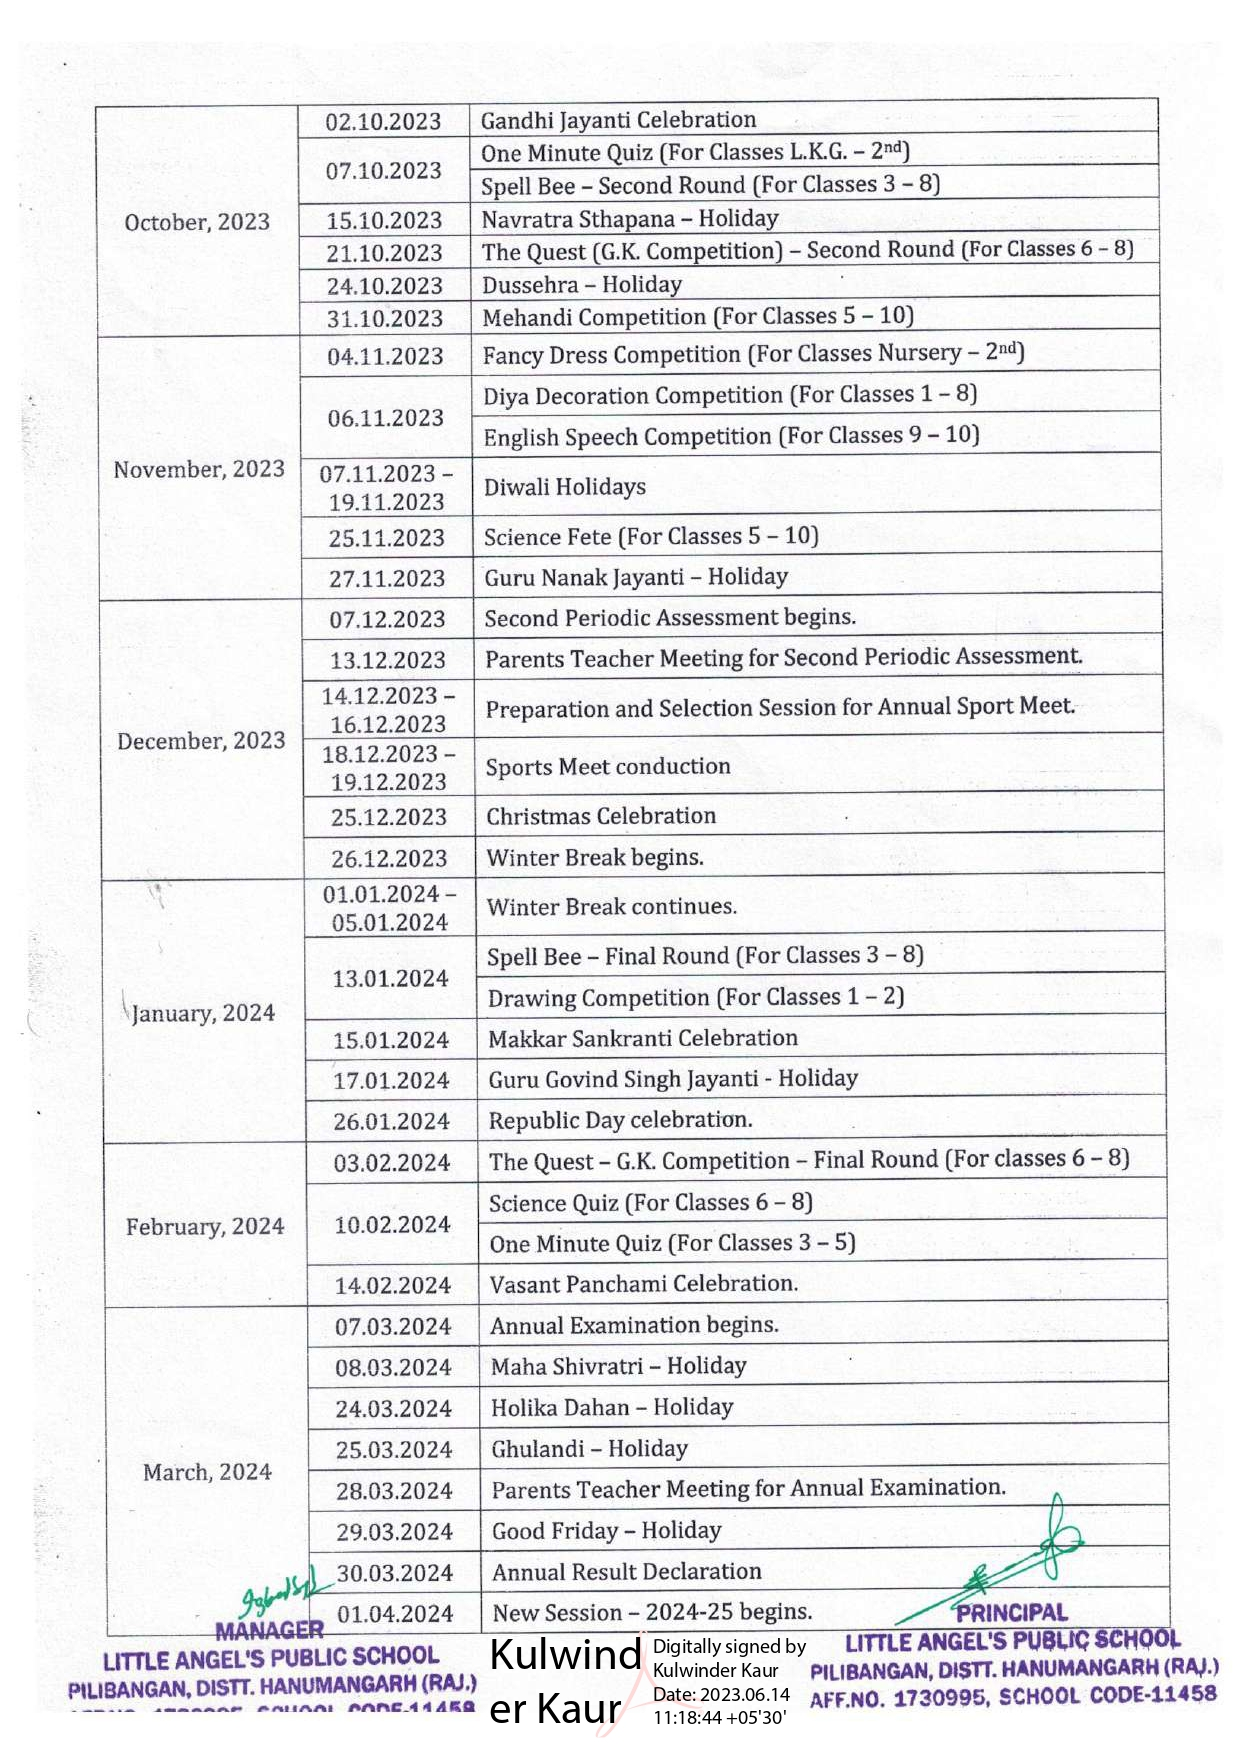
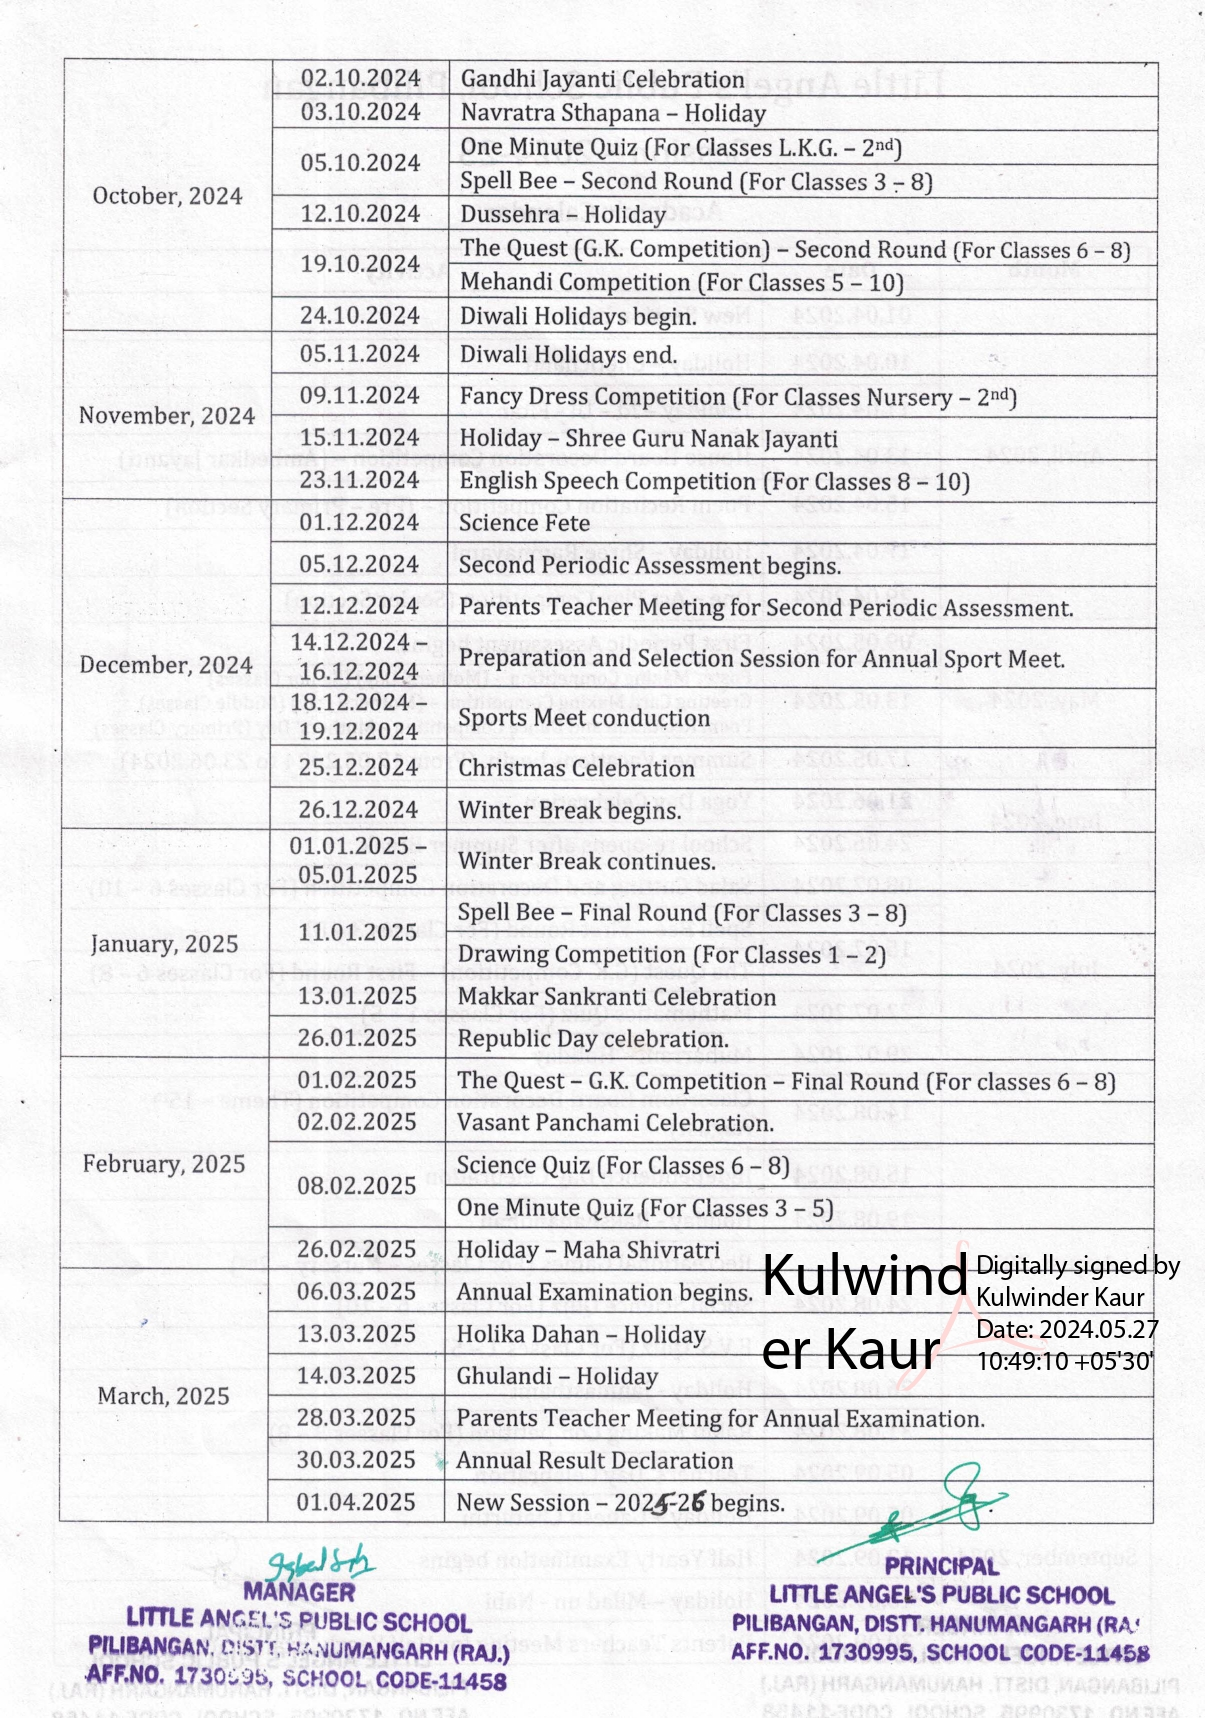
2024 changes

Changed region(s): [[0.0614, 0.0308, 0.9826, 1.0], [0.0614, 0.5861, 0.0921, 0.617], [0.0614, 0.4627, 0.0921, 0.4936]]

diff --git a/academic calender.html b/academic calender.html
@@ -130,19 +130,19 @@
                   
                     
                   <div class="col-lg-5">
-                      <img src="assets/img/AC1.jpg" alt="" class="img-fluid" >  
+                      <img src="assets/img/ac1.jpg" alt="" class="img-fluid" >  
                   </div>
 
                   <div class="col-lg-1">
                     </div>
 
                       <div class="col-lg-5">
-                        <img src="assets/img/AC2.jpg" alt="" class="img-fluid" >  
+                        <img src="assets/img/ac2.jpg" alt="" class="img-fluid" >  
                     </div>
 
                     
                    <div class="btns col-lg-12" text-center data-aos="fade-up">
-                   <a class="btn" href="https://drive.google.com/file/d/1H4VGD8fak3LDQ218r_uxLrabRKh9G2aN/view?usp=sharing"target="_blank">View PDF</a><br>
+                   <a class="btn" href="https://drive.google.com/file/d/1ICr5vw4I58WqVfjQeq6kfwwlX-FOP260/view?usp=sharing"target="_blank">View PDF</a><br>
                    </div>
                   
 

diff --git a/waterhealth.html b/waterhealth.html
@@ -140,9 +140,13 @@
                         <img src="assets/img/water2.jpg" alt="" class="img-fluid" >  
                     </div>
 
+                    <div class="col-lg-5">
+                        <img src="assets/img/water2.jpg" alt="" class="img-fluid" >  
+                    </div>
+
                     
                    <div class="btns col-lg-12" text-center data-aos="fade-up">
-                   <a class="btn" href="https://drive.google.com/file/d/1IlU7q-w_cxcGb61Bl6dfa-vjepX8DJml/view?usp=sharing" target="_blank">View PDF</a><br>
+                   <a class="btn" href="https://drive.google.com/file/d/1P9yPPMIOvNr0cB2UFvPQA3_TgWFG4_la/view?usp=sharing" target="_blank">View PDF</a><br>
                    </div>
                   
 

diff --git a/boardresult.html b/boardresult.html
@@ -144,7 +144,7 @@
 
                     
                    <div class="btns col-lg-12" text-center data-aos="fade-up">
-                   <a class="btn" href="https://drive.google.com/file/d/1-3D5QRIgB9xDCfEWeYkMgSD7PjqrxV53/view?usp=sharing"target="_blank">View PDF</a><br>
+                   <a class="btn" href="https://drive.google.com/file/d/1VYkQDiZrsNj0qBtx4MIlkjYgoick8Sxy/view?usp=sharing"target="_blank">View PDF</a><br>
                    </div>
                   
 

diff --git a/fees.html b/fees.html
@@ -143,7 +143,7 @@
 
                     
                    <div class="btns col-lg-12" text-center data-aos="fade-up">
-                   <a class="btn" href="https://drive.google.com/file/d/1GqaomPtr9M9jHp92q1aKx9-hxlnPKdWT/view?usp=sharing"target="_blank">View PDF</a><br>
+                   <a class="btn" href="https://drive.google.com/file/d/1eWcmnTSY6TG-ti5UpDthskm2U19mIaW5/view?usp=sharing"target="_blank">View PDF</a><br>
                    </div>
                   
 

diff --git a/pta.html b/pta.html
@@ -144,7 +144,7 @@
 
                     
                    <div class="btns col-lg-12" text-center data-aos="fade-up">
-                   <a class="btn" href="https://drive.google.com/file/d/17zcD-2ezneOY682UuLV_CEaStPtkGAsk/view?usp=sharing"target="_blank">View PDF</a><br>
+                   <a class="btn" href="https://drive.google.com/file/d/1_Iw1SzyFjm6QkNmBS2YNvXS1dk60o_aa/view?usp=sharing"target="_blank">View PDF</a><br>
                    </div>
                   
 

diff --git a/smc.html b/smc.html
@@ -144,7 +144,7 @@
 
                     
                    <div class="btns col-lg-12" text-center data-aos="fade-up">
-                   <a class="btn" href="https://drive.google.com/file/d/1g7y2NjMulXnu2Rjm7BeYFMC-NisR_H-z/view?usp=sharing"target="_blank">View PDF</a><br>
+                   <a class="btn" href="https://drive.google.com/file/d/1NJ1akHSsTuOMdLjLjk5GUJb4TRJVsQcI/view?usp=sharing"target="_blank">View PDF</a><br>
                    </div>
                   
 
